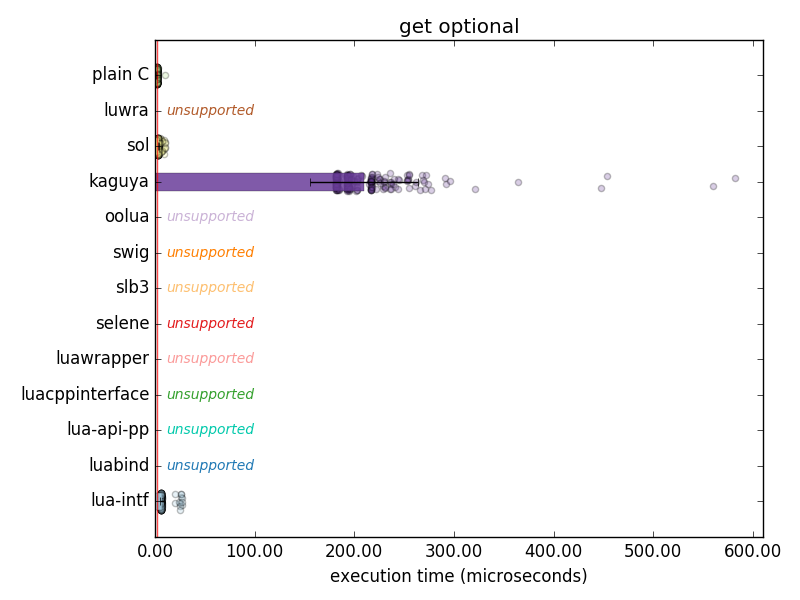
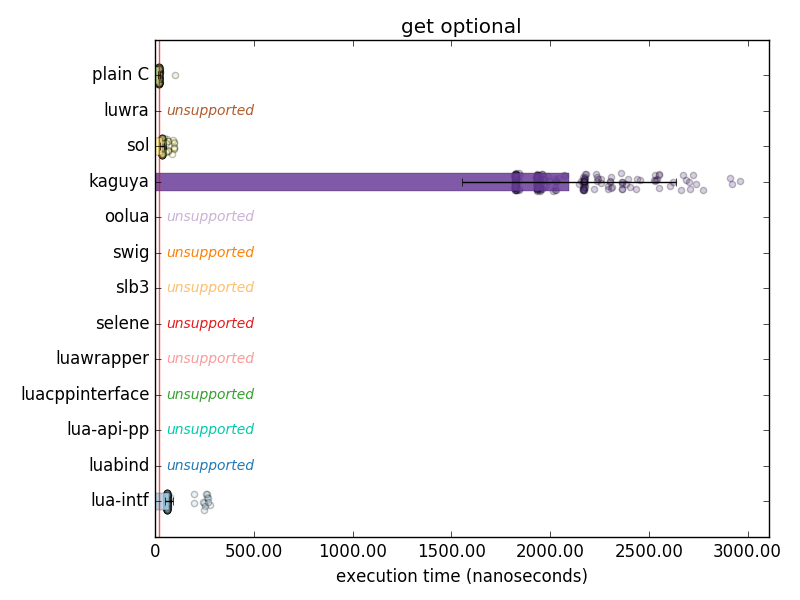
Takes nwp's suggestion and clips the worst offending outliers, albeit some graphs are still just bad no matter what... may want to look into removing really bad performers, maybe?

diff --git a/lua_crunch.py b/lua_crunch.py
@@ -45,10 +45,14 @@ class benchmark_result:
 		self.color = color
 		self.means = {}
 		self.stddevs = {}
+		self.clippingranges = {}
 		self.meanerrors = {}
 		self.samples = {}
 		self.samplemin = {}
 		self.samplemax = {}
+		self.visiblesamples = {}
+		self.visiblesamplemin = {}
+		self.visiblesamplemax = {}
 		self.absolutemin = 0xFFFFFFFF
 		self.absolutemax = 0
 		self.process()
@@ -68,7 +72,7 @@ class benchmark_result:
 					splits = k.split(' - ', 1)
 					if len(splits) > 1:
 						k = splits[1]
-					v = float(v)
+					v = float(v) / 100.0
 					# append into right place
 					target = None
 
@@ -91,6 +95,11 @@ class benchmark_result:
 				self.means[result] = numpy.average(self.samples[result])
 				self.stddevs[result] = numpy.std(self.samples[result], ddof = 1)
 				self.meanerrors[result] = self.means[result] / math.sqrt(len(self.samples))
+				# include 2 stddevs of range
+				self.clippingranges[result] = (max(self.means[result] + (self.stddevs[result] * -2), 0), self.means[result] + (self.stddevs[result] * 2))
+				self.visiblesamples[result] = [ y for y in self.samples[result] if self.clippingranges[result][0] <= y <= self.clippingranges[result][1] ]
+				self.visiblesamplemax[result] = max(self.visiblesamples[result])
+				self.visiblesamplemin[result] = min(self.visiblesamples[result])
 
 			
 crunch_categories = []
@@ -106,8 +115,8 @@ for t in crunch_targets:
 		else:
 			if b.name == 'plain C':
 				match[1] = b.means[category]
-			match[2] = max(match[2], b.samplemax[category])
-			match[3] = min(match[3], b.samplemin[category])
+			match[2] = max(match[2], b.visiblesamplemax[category])
+			match[3] = min(match[3], b.visiblesamplemin[category])
 
 
 random.seed(0)
@@ -130,20 +139,21 @@ for category_index, category_info in enumerate(sorted(crunch_categories, key=lam
 	for resultindex, result in enumerate(results):
 		color = result.color
 		name = result.name
+
 		if category not in result.samples:
 			bars.append(axes.text(absoluterange * 0.02, resultindex, 'unsupported', color=color, style='italic', horizontalalignment='left', verticalalignment='center', fontsize='small'))
 			barlabels.append(name)
 			continue
-		
-		samples = result.samples[category]
+
+		xvalues = result.samples[category]
 		mean = result.means[category]
 		stddev = result.stddevs[category]
 		meanerror = result.meanerrors[category]
-		yvalues = [resultindex + random.uniform(0.0, 0.50) - 0.25 for y in samples ] 
+		yvalues = [resultindex + random.uniform(0.0, 0.50) - 0.25 for y in xvalues] 
 
 		bars.append(axes.barh(resultindex, mean, xerr=meanerror, linewidth=0.2, ecolor='black', height=0.50, color=color, align='center', edgecolor='black', alpha=0.85))
 		barlabels.append(name)
-		axes.scatter(samples, yvalues, color=color, edgecolor='black', alpha=0.25)
+		axes.scatter(xvalues, yvalues, color=color, edgecolor='black', alpha=0.25)
 	
 	bars = list(reversed(bars))
 	barlabels = list(reversed(barlabels))
@@ -152,6 +162,10 @@ for category_index, category_info in enumerate(sorted(crunch_categories, key=lam
 	xscaleindex = bisect.bisect_left(timescalevalues, categorymax)
 	xscale = timescale[xscaleindex - 1]
 	def fmt ( value, pos ):
+		if value == 0:
+			return '0'
+		if value.is_integer():
+			return '{0:.0f}'.format(value * xscale[2])
 		return '{0:.2f}'.format(value * xscale[2])
 
 	axes.set_xlim([0, categorymax + (absoluterange * 0.05)])
@@ -175,4 +189,4 @@ for category_index, category_info in enumerate(sorted(crunch_categories, key=lam
 	plt.close(figure)
 
 
-plt.show()
+#plt.show()
